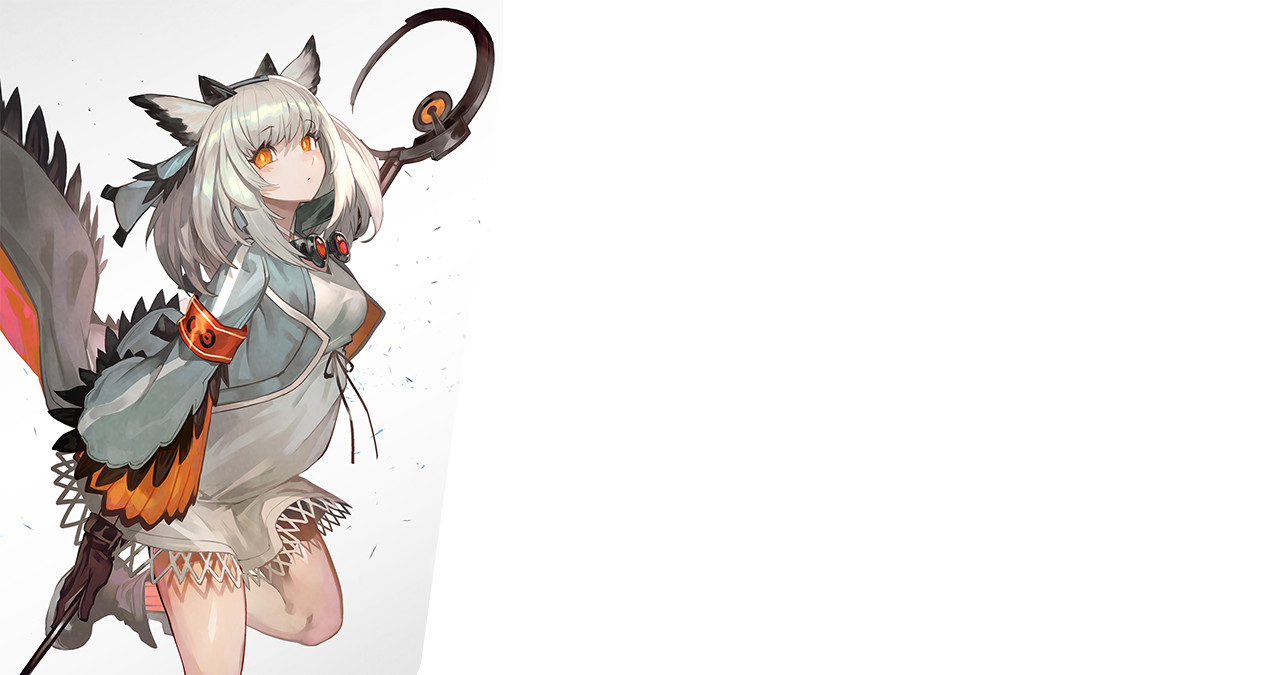
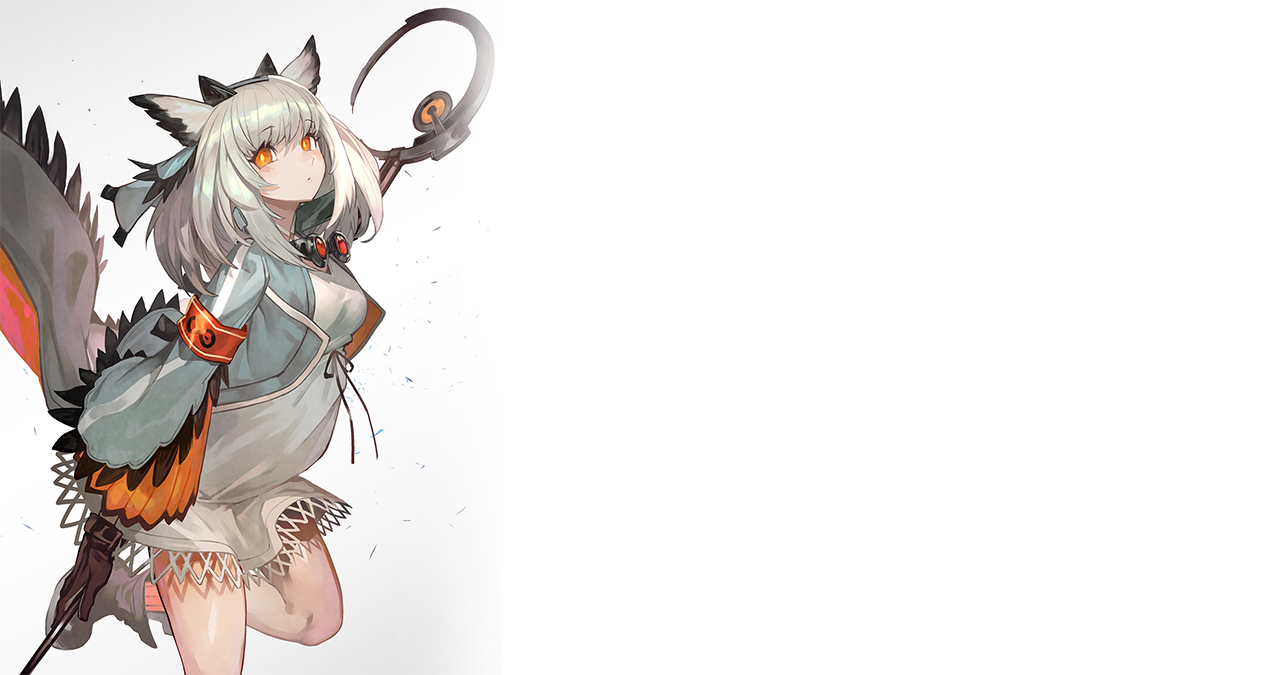
结算图片更新
- 更新了多种结算图片。

Changed region(s): [[0.3118, 0.0, 0.4053, 0.2489]]

diff --git a/Mods/pcr/pic.py b/Mods/pcr/pic.py
@@ -1,7 +1,7 @@
 from PIL import Image, ImageDraw, ImageFont
 import os
 
-
+import random
 import sys
 sys.path.append('./Mods/pcr')
 
@@ -20,15 +20,32 @@ async def savePic(image,fileName):
     os.rename(file_path+'.png',file_path+'.jpg')
 
 async def thankPic(name, id, total_damage):
-    image, img_draw = initPic('./Mods/pcr/thank2.png')
+
+    pic = random.randint(1,5)
+    #pic =5
+    if pic==1:
+        image, img_draw = initPic('./Mods/pcr/thank.png')
+        left_side = 580
+    elif pic==2:
+        image, img_draw = initPic('./Mods/pcr/thank2.png')
+        left_side = 80
+    elif pic==3:
+        image, img_draw = initPic('./Mods/pcr/thank3.png')
+        left_side = 540
+    elif pic==4:
+        image, img_draw = initPic('./Mods/pcr/thank4.png')
+        left_side = 80
+    elif pic==5:
+        image, img_draw = initPic('./Mods/pcr/thank5.png')
+        left_side = 80
+
     ttf_name = ImageFont.truetype('./Mods/pcr/bold.ttf',80)
     ttf_id = ImageFont.truetype('./Mods/pcr/bold.ttf',40)
     ttf = ImageFont.truetype('./Mods/pcr/bold.ttf',70)
     ttf_small = ImageFont.truetype('./Mods/pcr/bold.ttf',40)
     ttf_damage = ImageFont.truetype('./Mods/pcr/bold.ttf',140)
     ttf_japan = ImageFont.truetype('./Mods/pcr/japan.ttf',140)
-
-    left_side = 80
+    
     top_side = 80
 
     img_draw.text( (left_side,top_side+20), name, font=ttf_name, fill=(0,0,0) )

diff --git a/test.py b/test.py
@@ -1,11 +1,14 @@
 import sys
 sys.path.append('./Mods/pcr')
-import asyncio
+import asyncio, random
 from pic import thankPic
 
 async def aaa():
-    await thankPic("Peach",123456789,555666777)
+    await thankPic("Peach",123456789,5666777)
 
-if __name__ == "__main__":
-    thankPic("Peach",123456789,5666777)
 
+# 获取EventLoop:
+loop = asyncio.get_event_loop()
+# 执行coroutine
+loop.run_until_complete(aaa())
+loop.close()
